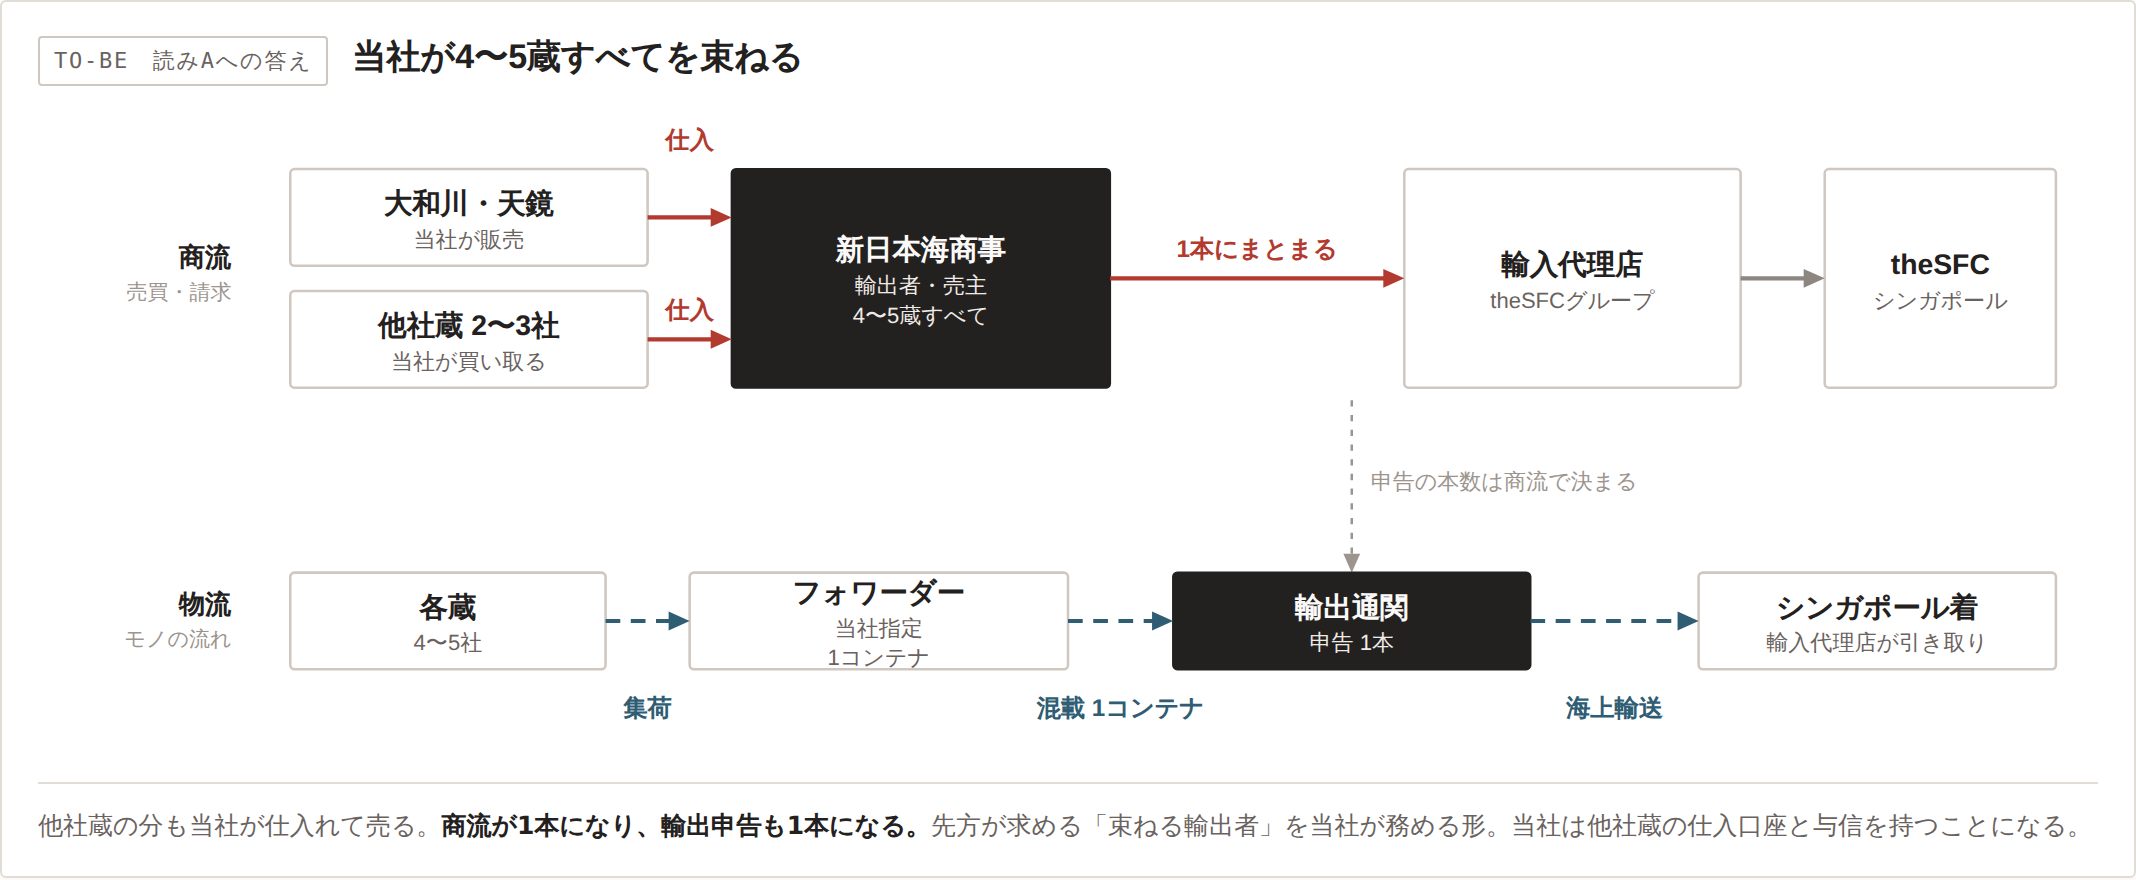
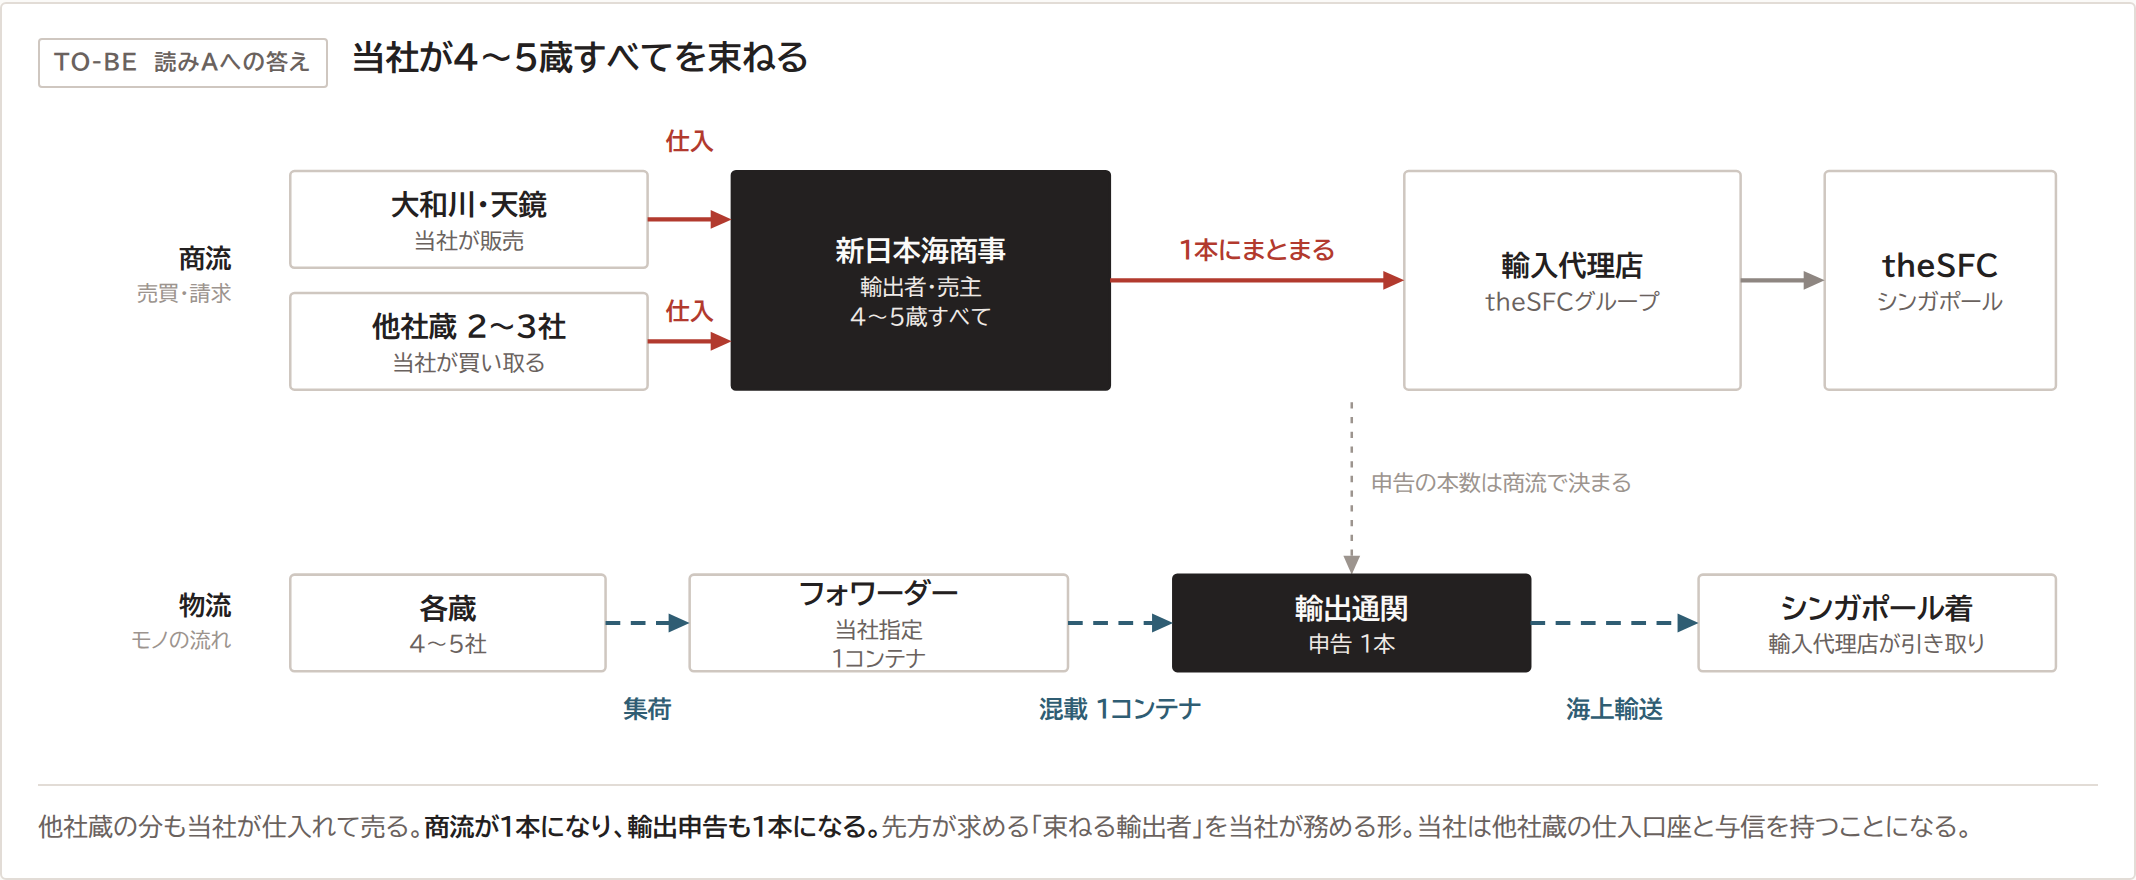
フォント指定をMeiryo UI優先に変更。図を再出力

diff --git a/_inbox/20260901_DOC_酒類輸出_商流物流フロー.html b/_inbox/20260901_DOC_酒類輸出_商流物流フロー.html
@@ -1,7 +1,7 @@
 <title>日本酒混載輸出の商流と物流</title>
 <link rel="preconnect" href="https://fonts.googleapis.com">
 <link rel="preconnect" href="https://fonts.gstatic.com" crossorigin>
-<link rel="stylesheet" href="https://fonts.googleapis.com/css2?family=Zen+Kaku+Gothic+New:wght@500;700;900&family=Noto+Sans+JP:wght@400;500;700&family=IBM+Plex+Mono:wght@500&display=swap">
+<link rel="stylesheet" href="https://fonts.googleapis.com/css2?family=BIZ+UDPGothic:wght@400;700&display=swap">
 <style>
 :root{
   --paper:#FBFAF8; --paper-2:#EFEAE6; --surface:#FFFFFF;
@@ -25,13 +25,13 @@
 }
 *{box-sizing:border-box}
 body{background:var(--paper);color:var(--ink);
-  font-family:"Noto Sans JP","Hiragino Kaku Gothic ProN",system-ui,sans-serif;
+  font-family:"Meiryo UI","Meiryo","BIZ UDPGothic","Hiragino Kaku Gothic ProN",sans-serif;
   font-size:15px;line-height:1.75;-webkit-font-smoothing:antialiased}
 .wrap{max-width:1120px;margin:0 auto;padding:38px 26px 72px;display:flex;flex-direction:column;gap:30px}
-h1{font-family:"Zen Kaku Gothic New","Noto Sans JP",sans-serif;font-weight:900;
+h1{font-family:"Meiryo","Meiryo UI","BIZ UDPGothic","Hiragino Kaku Gothic ProN",sans-serif;font-weight:700;
   font-size:clamp(25px,3.4vw,34px);line-height:1.25;margin:0 0 8px;text-wrap:balance}
 .sub{margin:0;color:var(--ink-2);font-size:13.5px}
-.date{font-family:"IBM Plex Mono",monospace;font-size:12px;color:var(--ink-3);letter-spacing:.06em}
+.date{font-size:12px;color:var(--ink-3);letter-spacing:.06em}
 .head{display:flex;justify-content:space-between;align-items:flex-start;gap:20px;flex-wrap:wrap}
 
 .legend{display:flex;flex-wrap:wrap;gap:10px 26px;padding:14px 18px;
@@ -42,25 +42,25 @@ h1{font-family:"Zen Kaku Gothic New","Noto Sans JP",sans-serif;font-weight:900;
 
 section{display:flex;flex-direction:column;gap:16px}
 .sh{border-top:2px solid var(--ink);padding-top:12px}
-.sh h2{font-family:"Zen Kaku Gothic New","Noto Sans JP",sans-serif;font-weight:700;
+.sh h2{font-family:"Meiryo","Meiryo UI","BIZ UDPGothic",sans-serif;font-weight:700;
   font-size:21px;margin:0 0 4px;letter-spacing:.01em}
 .sh p{margin:0;color:var(--ink-2);font-size:13px}
 
 .fig{margin:0;background:var(--surface);border:1px solid var(--rule);border-radius:3px;
   padding:16px 18px 14px;display:flex;flex-direction:column;gap:10px}
 .fh{display:flex;align-items:baseline;gap:12px;flex-wrap:wrap}
-.tag{font-family:"IBM Plex Mono",monospace;font-size:11px;font-weight:500;letter-spacing:.08em;
+.tag{font-size:11px;font-weight:700;letter-spacing:.06em;
   color:var(--ink-2);border:1px solid var(--rule-2);border-radius:2px;padding:2px 7px;white-space:nowrap}
-.fh h3{font-family:"Zen Kaku Gothic New","Noto Sans JP",sans-serif;font-weight:700;
+.fh h3{font-family:"Meiryo","Meiryo UI","BIZ UDPGothic",sans-serif;font-weight:700;
   font-size:17px;margin:0;line-height:1.4}
 .svgwrap{overflow-x:auto}
 svg{display:block;width:100%;min-width:760px;height:auto}
-.nt{font:700 13.5px "Zen Kaku Gothic New","Noto Sans JP",sans-serif}
-.ns{font:400 10.5px "Noto Sans JP",sans-serif}
-.al{font:700 11.5px "Noto Sans JP",sans-serif}
-.lane{font:700 12.5px "Zen Kaku Gothic New","Noto Sans JP",sans-serif;fill:var(--ink)}
-.lane2{font:400 10px "Noto Sans JP",sans-serif;fill:var(--ink-3)}
-.tie{font:400 10.5px "Noto Sans JP",sans-serif}
+.nt{font:700 13.5px "Meiryo","Meiryo UI","BIZ UDPGothic",sans-serif}
+.ns{font:400 10.5px "Meiryo UI","Meiryo","BIZ UDPGothic",sans-serif}
+.al{font:700 11.5px "Meiryo UI","Meiryo","BIZ UDPGothic",sans-serif}
+.lane{font:700 12.5px "Meiryo","Meiryo UI","BIZ UDPGothic",sans-serif;fill:var(--ink)}
+.lane2{font:400 10px "Meiryo UI","Meiryo","BIZ UDPGothic",sans-serif;fill:var(--ink-3)}
+.tie{font:400 10.5px "Meiryo UI","Meiryo","BIZ UDPGothic",sans-serif}
 figcaption{font-size:12.5px;color:var(--ink-2);border-top:1px solid var(--rule);padding-top:10px;margin:0}
 figcaption b{color:var(--ink);font-weight:700}
 .close{background:var(--paper-2);border-radius:3px;padding:16px 20px;font-size:13.5px;line-height:1.8}

diff --git a/_inbox/20260901_CODE_酒類輸出_商流物流フロー生成.py b/_inbox/20260901_CODE_酒類輸出_商流物流フロー生成.py
@@ -121,7 +121,7 @@ def fig(key, tag, title, caption, aria):
 PAGE = f'''<title>日本酒混載輸出の商流と物流</title>
 <link rel="preconnect" href="https://fonts.googleapis.com">
 <link rel="preconnect" href="https://fonts.gstatic.com" crossorigin>
-<link rel="stylesheet" href="https://fonts.googleapis.com/css2?family=Zen+Kaku+Gothic+New:wght@500;700;900&family=Noto+Sans+JP:wght@400;500;700&family=IBM+Plex+Mono:wght@500&display=swap">
+<link rel="stylesheet" href="https://fonts.googleapis.com/css2?family=BIZ+UDPGothic:wght@400;700&display=swap">
 <style>
 :root{{
   --paper:#FBFAF8; --paper-2:#EFEAE6; --surface:#FFFFFF;
@@ -145,13 +145,13 @@ PAGE = f'''<title>日本酒混載輸出の商流と物流</title>
 }}
 *{{box-sizing:border-box}}
 body{{background:var(--paper);color:var(--ink);
-  font-family:"Noto Sans JP","Hiragino Kaku Gothic ProN",system-ui,sans-serif;
+  font-family:"Meiryo UI","Meiryo","BIZ UDPGothic","Hiragino Kaku Gothic ProN",sans-serif;
   font-size:15px;line-height:1.75;-webkit-font-smoothing:antialiased}}
 .wrap{{max-width:1120px;margin:0 auto;padding:38px 26px 72px;display:flex;flex-direction:column;gap:30px}}
-h1{{font-family:"Zen Kaku Gothic New","Noto Sans JP",sans-serif;font-weight:900;
+h1{{font-family:"Meiryo","Meiryo UI","BIZ UDPGothic","Hiragino Kaku Gothic ProN",sans-serif;font-weight:700;
   font-size:clamp(25px,3.4vw,34px);line-height:1.25;margin:0 0 8px;text-wrap:balance}}
 .sub{{margin:0;color:var(--ink-2);font-size:13.5px}}
-.date{{font-family:"IBM Plex Mono",monospace;font-size:12px;color:var(--ink-3);letter-spacing:.06em}}
+.date{{font-size:12px;color:var(--ink-3);letter-spacing:.06em}}
 .head{{display:flex;justify-content:space-between;align-items:flex-start;gap:20px;flex-wrap:wrap}}
 
 .legend{{display:flex;flex-wrap:wrap;gap:10px 26px;padding:14px 18px;
@@ -162,25 +162,25 @@ h1{{font-family:"Zen Kaku Gothic New","Noto Sans JP",sans-serif;font-weight:900;
 
 section{{display:flex;flex-direction:column;gap:16px}}
 .sh{{border-top:2px solid var(--ink);padding-top:12px}}
-.sh h2{{font-family:"Zen Kaku Gothic New","Noto Sans JP",sans-serif;font-weight:700;
+.sh h2{{font-family:"Meiryo","Meiryo UI","BIZ UDPGothic",sans-serif;font-weight:700;
   font-size:21px;margin:0 0 4px;letter-spacing:.01em}}
 .sh p{{margin:0;color:var(--ink-2);font-size:13px}}
 
 .fig{{margin:0;background:var(--surface);border:1px solid var(--rule);border-radius:3px;
   padding:16px 18px 14px;display:flex;flex-direction:column;gap:10px}}
 .fh{{display:flex;align-items:baseline;gap:12px;flex-wrap:wrap}}
-.tag{{font-family:"IBM Plex Mono",monospace;font-size:11px;font-weight:500;letter-spacing:.08em;
+.tag{{font-size:11px;font-weight:700;letter-spacing:.06em;
   color:var(--ink-2);border:1px solid var(--rule-2);border-radius:2px;padding:2px 7px;white-space:nowrap}}
-.fh h3{{font-family:"Zen Kaku Gothic New","Noto Sans JP",sans-serif;font-weight:700;
+.fh h3{{font-family:"Meiryo","Meiryo UI","BIZ UDPGothic",sans-serif;font-weight:700;
   font-size:17px;margin:0;line-height:1.4}}
 .svgwrap{{overflow-x:auto}}
 svg{{display:block;width:100%;min-width:760px;height:auto}}
-.nt{{font:700 13.5px "Zen Kaku Gothic New","Noto Sans JP",sans-serif}}
-.ns{{font:400 10.5px "Noto Sans JP",sans-serif}}
-.al{{font:700 11.5px "Noto Sans JP",sans-serif}}
-.lane{{font:700 12.5px "Zen Kaku Gothic New","Noto Sans JP",sans-serif;fill:var(--ink)}}
-.lane2{{font:400 10px "Noto Sans JP",sans-serif;fill:var(--ink-3)}}
-.tie{{font:400 10.5px "Noto Sans JP",sans-serif}}
+.nt{{font:700 13.5px "Meiryo","Meiryo UI","BIZ UDPGothic",sans-serif}}
+.ns{{font:400 10.5px "Meiryo UI","Meiryo","BIZ UDPGothic",sans-serif}}
+.al{{font:700 11.5px "Meiryo UI","Meiryo","BIZ UDPGothic",sans-serif}}
+.lane{{font:700 12.5px "Meiryo","Meiryo UI","BIZ UDPGothic",sans-serif;fill:var(--ink)}}
+.lane2{{font:400 10px "Meiryo UI","Meiryo","BIZ UDPGothic",sans-serif;fill:var(--ink-3)}}
+.tie{{font:400 10.5px "Meiryo UI","Meiryo","BIZ UDPGothic",sans-serif}}
 figcaption{{font-size:12.5px;color:var(--ink-2);border-top:1px solid var(--rule);padding-top:10px;margin:0}}
 figcaption b{{color:var(--ink);font-weight:700}}
 .close{{background:var(--paper-2);border-radius:3px;padding:16px 20px;font-size:13.5px;line-height:1.8}}
